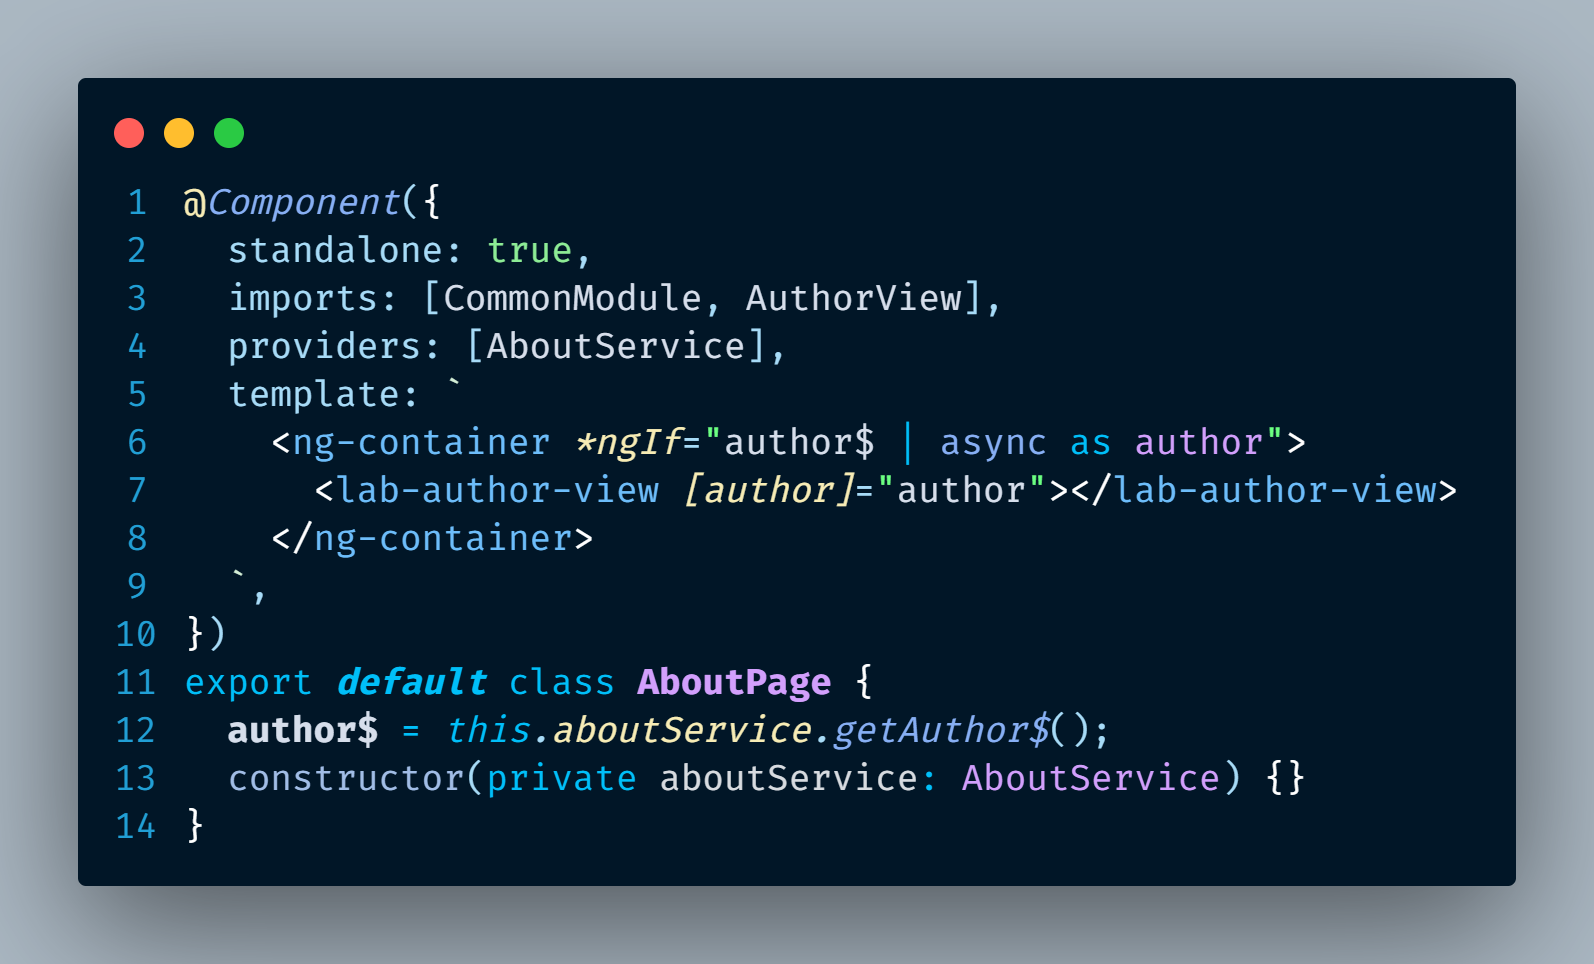
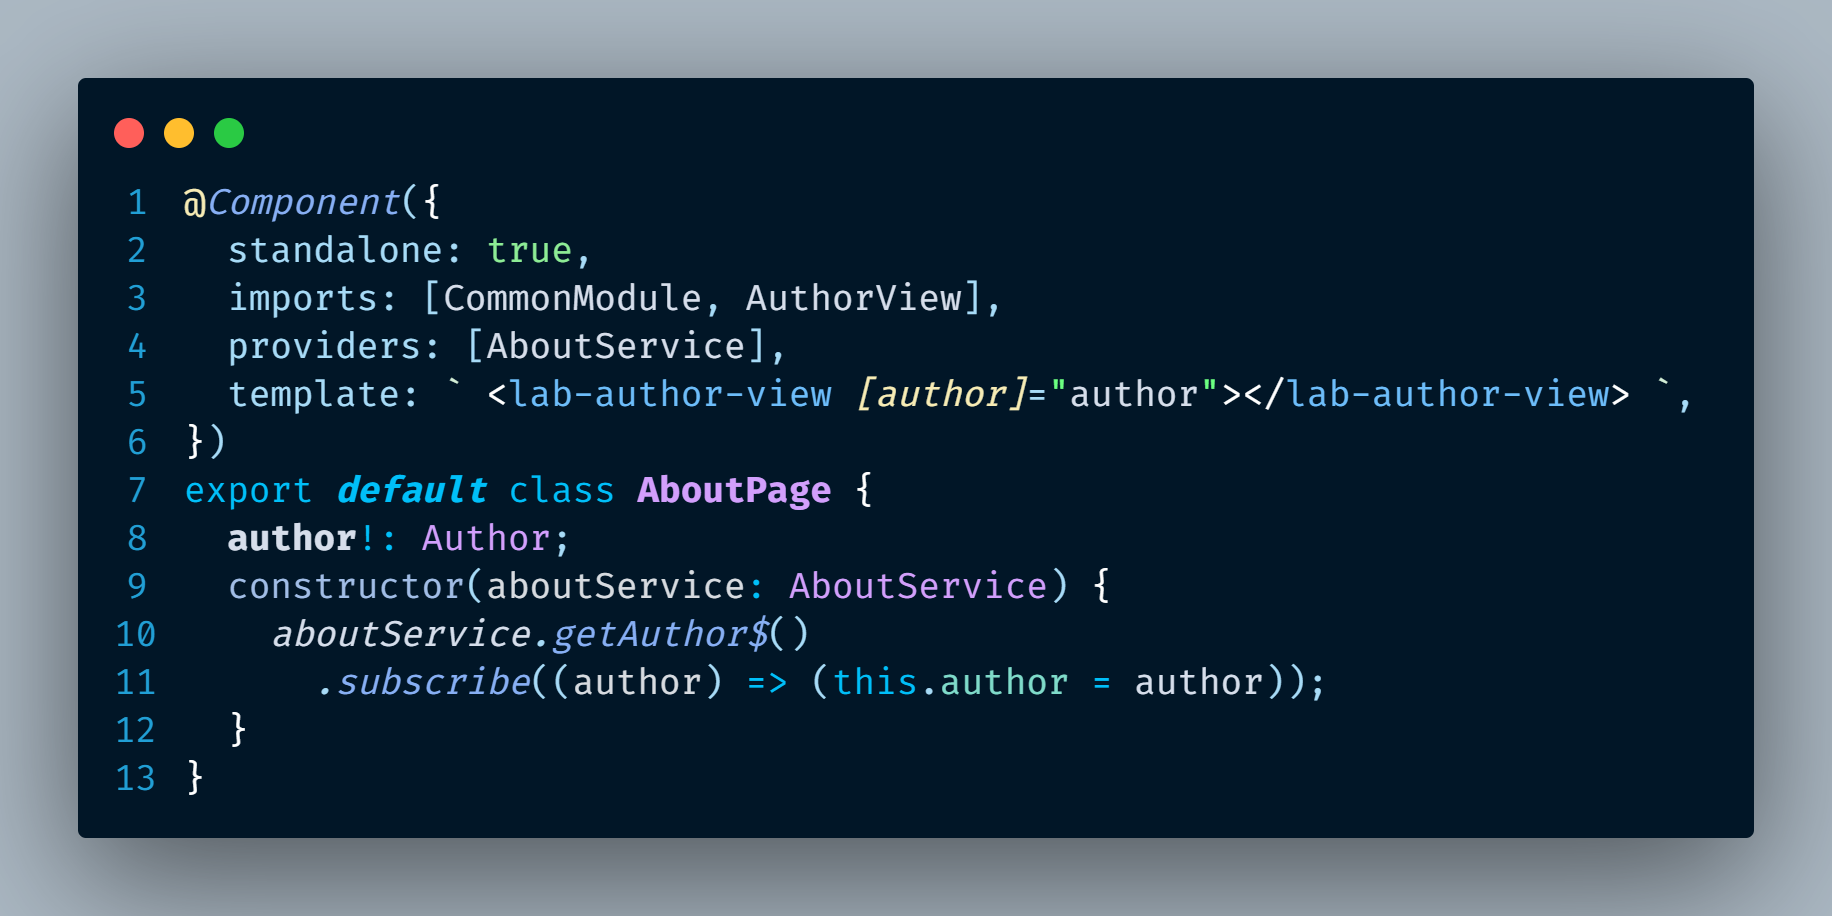
feat: about page subscribe

Changed region(s): [[0.0307, 0.0917, 0.9222, 0.917], [0.0615, 0.0611, 0.9529, 0.0917], [0.9222, 0.0917, 0.9837, 0.917]]

diff --git a/src/app/routes/about/about.page.ts b/src/app/routes/about/about.page.ts
@@ -1,19 +1,18 @@
 import { CommonModule } from '@angular/common';
 import { Component } from '@angular/core';
 import { AboutService } from './about.service';
+import { Author } from './author.interface';
 import { AuthorView } from './author.view';
 
 @Component({
   standalone: true,
   imports: [CommonModule, AuthorView],
   providers: [AboutService],
-  template: `
-    <ng-container *ngIf="author$ | async as author">
-      <lab-author-view [author]="author"></lab-author-view>
-    </ng-container>
-  `,
+  template: ` <lab-author-view [author]="author"></lab-author-view> `,
 })
 export default class AboutPage {
-  author$ = this.aboutService.getAuthor$();
-  constructor(private aboutService: AboutService) {}
+  author!: Author;
+  constructor(aboutService: AboutService) {
+    aboutService.getAuthor$().subscribe((author) => (this.author = author));
+  }
 }
